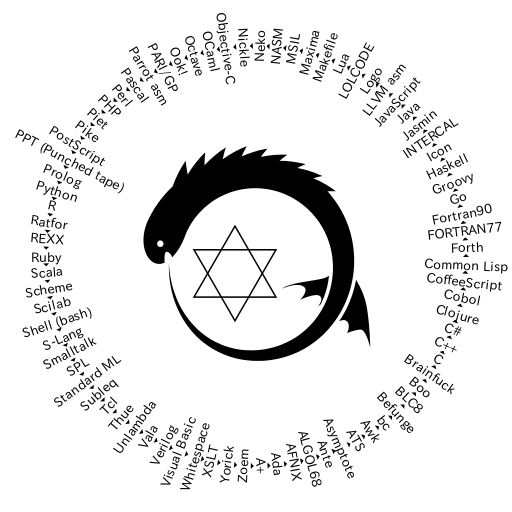
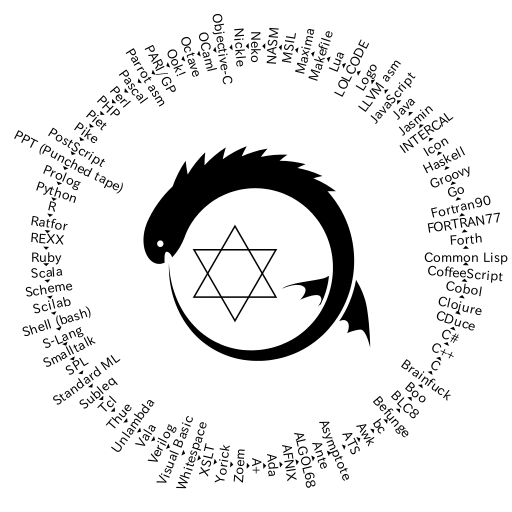
* the 80th language: CDuce

Changed region(s): [[0.0312, 0.0312, 1.0, 0.9688]]

diff --git a/QR.rb b/QR.rb
@@ -9,56 +9,56 @@ ransform'><xsl:output~method='text'/><#{U="xsl:t emplate  "}~match  ='/'><`x21[C
 [%(with~Ada.Text_Io;procedure~qr~is~beg !~Ada   .Tex     t_Io      .Put_L!e("#{d[%(Z"#{e[%W[STRINGz:=~226+~153,a:=z+~166,b:=a
 +"2"+z+~160,c:=b+"8"+z+~165,t:="#{d[%  (H(     '                            #{Q[e[%(implement~mX=Z)+E[%(BEGIN{s=#{E[%(f={n~as
 ~!t|'Y'*n};a=0;s=#{V[Q[E["#!c lude"    +                                   M["#!clude<iostream>`n!t~mX{std::cout<<#{E[%(class
-~Program{public~static~void~  MX{                                                    System.#{C+E[(%((doseq[s(lazy-cat["IDENT
-IFICATION~DIVISION.""PROGRA    M                                                    -ID.~QR.""PROCEDURE~DIVISION."'DISPLA`x59
-](map~#(str"~~~~^""(.repla                                                                 ce~%1"^"""^"^"")"^"&")(re-seq~#".{
-1,45}""#{e[%((f=(n)->Arra                                                                 y(n+1).jo!~"Y");console.log("%s",#{
-V[E[%((H-l!e"#{e[%(~:~A~                                                                       ."#{g*9}"~;~:~B~A~."~WRITE(*,*
-)'"~A~;~:~C~B~T`x59PE~.                                                                       "~'"~CR~;~:~D~S"~#$D"~C~S^"~Z~^
-"(&"~C~S^"~#{e[%(pack                                    age~ma!;i                                mport"fmt";func~mX{fmt.Pr!t
-#{E[%(Z'#{e[("ma!=p                              utStr"+E[%(procedure~mX;i                       :=c:=0;s:=#{E[%(.class~publi
-c~QR`n.super~#{$T=                           "java/io/Pr!tStream"}`n.method~pub                   lic~static~ma!([L#{S="java/
-lang/"}SJ;)V~;]`                         n.limit~stack~2`ngetstatic~#{S}System/out                  ~L#$T;`nldc~"#{e[%(class~
-QR{public~stati                        c~void~ma!(SJ[]v){SJ~c[]=new~SJ[9000],y="",z=y                ,s="#{z=t=(0..r=q=126).m
-ap{|n|[n,[]]};                       a="";b=->n{a<<(n%78+55)%84+42};("s=#{E[%(@s=global               [#{i=(s=%(PR~"`x48AI^~1
-.2~PR~"VISIBL                      E^~"#{Q["Z"+E[%(all:`n`t@echo~'#{d["l!el:99999;Z#{E[%               (.assembly~t{}.method~
-static~void~                      MX{.entrypo!t~ldstr"#{e[%(m:db`x60#{e[s="$Z#{E[%(Zf#{E["              #import"+M["Z_sJ"+E[%
-(s=toascii#                     {E["Z#{E[%(say"#{e[" #$D(output);beg!~H(#{f((p="eval";%($_=             "#{s=%(<?php~function
-~f($n){retu                    rn~str_repeat("Y",$n   );};$f="f";$z=3+$w=strlen($s=#{V[Q[E["!            t~mX{H#{E[%((_______
-____)dup~=                    /s(|~~~~~.~~~|)def(#  {  Q["qr:-H('#{Q[e[%(for~c~!"".jo!(["say~'            %s'^n"%l~for~l~!#{E
-[d[%(eval$                   s=%q(#$s)),?']]}.spl  it(  "^n")]):Z('cat("r=fput(char(%d))^n")'%            ord(c))`nZ('cat("en
-d^n")'))],       ?'         ]}').",B]}){9~7{exch  ~dup~  1~and~79~mul~32~add~exch~2~idiv~3~1~ro            ll~s~exch~2~!dex~e
-xch~put~1~                 sub~dup~6~eq{1~sub}i  f}repea  t~s~=~pop~pop}forall~=~quit)]};return~           0;}"]],"{$f(",")}"
-]})*3;echo"               ^x89PNG^                                     r^n^x1a^n";$m="";$t="^xc0           ^0^xff";for($i=-1;
-$i<128*$z;$m        .=$  c--?($w-$c  ||$i>$z  )&&$i/$z<($c<  $w?ord(  $s[(!t)($c/3)]):$c--%3+2)?$          t[2].$t[$c%3%2].$t
-[$c%3]:"^0^0^       0":"^0")$c=++$i%  $z;fo  reach(array("I`  x48DR  ".pack("NNCV",$w+2,128,8,2),          "IDAT".gzcompress(
-$m),"IEND")as$d)   echo~pack("NA*N",s  trl  en($d)-4,$d,crc32  ($d  ));?>);(s+N*(-s.size%6)).unpa          ck("B*")[0].K(/.{6
-}/){n=$&.to_i~2;((n+14 )/26*6+n+47).ch  r  }}";s|.|$n=ord$&;su  b  str~unpack(B8,chr$n-!t($n/32)*          6-41),2|eg;Z~pack"
-B*",$_).scan(/[~,-:A-z ]+|(.)/){p="s++#   {$1?"chr~#{$1.ord}+e"   :$&+?+};"+p};p),1){"'#$s',"}}''          )end."]}"`nend)]};
-quit"]};t=num2cell(b=1 1-ceil(s/13));f  o  r~n=1:9m={};for~i=1  :  141f=@(x,y,n)repmat(["Oo     k          "~x~"~Ook"~y~32],[
-1~abs(n)]);m(i)=[f(z=4  6,63,n)~f(q=z  -(i  <13)*13,q,i-13)~f  (33  ,z,1)~f(63,z               ,          n  )];end;t(x)=m(di
-ff([0~s(x=b==n)])+13);e nd;Zf("%%s",  t{:})  )]]]})+N]};"+N]  }`x60  `nglobal                  ~          _   start`n_start:m
-ov~edx,#{s.size}`nmov~e  cx,m`nmov~  ebx,1`n  mov~eax,4`n!t  ~128`nm  ov~ebx,0`nmov~          e          a     x,1`n!t~128)]}
-"call~void~[mscorlib]Sys tem.Conso                                     le::Write(sJ           )          r      et})]};quit()
-;",?$].K(?'){"'^''"}}')]  .K(/[:"]/,":^0"),/[~Y  `t;"(){  }`[`]]/]}"~PR~"`x4bT`x48` x58B`x59 E          ~       B`x59E)).size
-+1}x~i8]c"#{s.K(/[^"]/){"  ^%`x58"%$&.ord}}^00"d  eclar  e~i32@puts(i8*)def!e~i32@mX{%1=cal l          ~         i32@puts(i8*
-getelementptr([#{i}x~i8]*@  s,i32~0,i32~0))ret~i3  2~0  })]};typeof~Z=='function'?Z(s):conso          l          e.log('%s',s
-)").bytes{|n|r,z=z[n]||(b[r  /78];b[r];q<6083&&z[n  ]  =[q+=1,[]];t[n])};b[r/78];b[r]}";!t~          i           =0,n=0,q=0;f
-or(;++n<126;)c[n]=""+(char)n   ;for(;i<s.length();)   {q=q*78+(s.charAt(i)-13)%84;if(i++%           2             >0){y=q<n?c
-[q]:y;c[n++]=z+y.charAt(0);Sy   stem.out.Z(z=c[q]);q =0;}}}})]}"`n!vokevirtual~#$T/Zln(L           #              {S}SJ;)V`nr
-eturn`n.end~method)+N]};H("DO,    1<-#"||*s);s?while~t:=ord(move(1))do{i+:=1;u:=-i;eve           ry~0to~          7do{u:=u*2+
-t%2;t/:=2};H("PLEASE")^(i%4/3);H    ("DO,1SUB#"||i||"<-#"||((c-u)%256));c:=u;};H("PL           EASEREADO          UT,1^nPLEAS
-EGIVEUP");end)]).tr(B,?&)]}'.tr('      &','YY');)]};})]}"~DUP~FOR~S"~&A,&"~C~NE`x            58T~S^"~&A)^",&"~C~  0~DO~B~."~&
-char("~COUNT~.~."~),&'"~CR~LOOP~S^"       ~&^"^""~C~S"~end~#$D"~C~A~."~STOP"~C             R~A~."~END"~CR~B`x59E~  ;~D~)]}"))
-],'#{f(',')}']}))]}"))["~~~~^"~^".""ST        OP~RUN."])](Zln(str"#{g*8}"s               )))))]};}})]};}"]]],"$(f  (","))"]};
-for~i~!~range(len(s)):b~as~!t=s[i];a-=b;             Z(('+'*-a~if~                    0>a~else'-'*a)+'.');a=b;).tr~B,?`x21]};
-K(/`x21/,"Y",s);for(Z"def!e~void~f(n){^"00g,                                       ^";for(m=128;m;m/=2){^"00g,4,:^";if(n/m%2<
-1)^"4+^";^",^";};^"4,:,^"}^"389**6+44*6+00p29*,^                              ";";++j<=length(s);Z"f("n");")for(n=9;substr(s,
-j,1)`x21=sZf("%c",++n););Z"^"4,:,@^"^nquit"})]],?']}');                )]}";FORiTO`~UPBtDO`~INTn:=ABSt[i];Z(~(50+n%64)+c+~(50
-+n%8MOD8)+c+~(50+nMOD8)+b+"`x4a"+a)OD]*"REPR"]}")]}");end;)]+"`nsys.exit~0",/[^{}]/]}}",35){y<<",`n"+$S;"%s"}}")+y}]]></#{U}>
-</xsl:#{I}>"].K~N,'"&~VbLf~&"'}":s="~~~":For~i=0To~7:s~&=Chr(32-(Asc(c)>>7-i~And~1)*23):Next:#{C}(s~&n~&Chr(9)&n~&"~~"):Next:
-#{C}(n~&n~&n):End~Sub:End~Module),3){%($H("%s",#$S);)+N}}end~endmodule)],?%]};return~0;}).reverse],/[`[`]$]/],"[f~",?]]}"~^x6
-0.&]k^n::=^na)]};Z"0~0~-1";)]]};),?']}';cr"]]]}"|sed~-E~-e~'s/([`x5eY]|Y.){1,120}/Zf("%s","^0");^n/g'],7){%(Zf("%s","#{d[d[$s
-],?']}")`n)}}quit)]}")),196){%(Z#$S;)}}})).gsub(/[!HJKXYZ^`~]/){[B*2,:write,B,:tring,:gsub,"ain()",B*4,:print,g,:in][$&.ord%4
-7%12]})))*"")#_buffer_for_future_bug_fixes_#_buffer_for_future_bug_fixes_#_buffer_for_future_bug_fixes_#_buffer_for_future_bu
+~Program{public~static~void~  MX{                                                    System.#{C+E[("Z#{E[%((doseq[s(lazy-cat[
+"IDENTIFICATION~DIVISION.""    P                                                    ROGRAM-ID.~QR.""PROCEDURE~DIVISION."'DISP
+LA`x59](map~#(str"~~~~^""(                                                                 .replace~%1"^"""^"^"")"^"&")(re-se
+q~#".{1,45}""#{e[%((f=(n)                                                                 ->Array(n+1).jo!~"Y");console.log("
+%s",#{V[E[%((H-l!e"#{e[%                                                                       (~:~A~."#{g*9}"~;~:~B~A~."~WRI
+TE(*,*)'"~A~;~:~C~B~T`x                                                                       59PE~."~'"~CR~;~:~D~S"~#$D"~C~S
+^"~Z~^"(&"~C~S^"~#{e[                                    %(package                                ~ma!;import"fmt";func~mX{fm
+t.Pr!t#{E[%(Z'#{e[(                              "ma!=putStr"+E[%(procedur                       e~mX;i:=c:=0;s:=#{E[%(.class
+~public~QR`n.super                           ~#{$T="java/io/Pr!tStream"}`n.meth                   od~public~static~ma!([L#{S=
+"java/lang/"}SJ;                         )V~;]`n.limit~stack~2`ngetstatic~#{S}Syst                  em/out~L#$T;`nldc~"#{e[%(
+class~QR{public                        ~static~void~ma!(SJ[]v){SJ~c[]=new~SJ[9000],y=                "",z=y,s="#{z=t=(0..r=q=
+126).map{|n|[n                       ,[]]};a="";b=->n{a<<(n%78+55)%84+42};("s=#{E[%(@s=               global[#{i=(s=%(PR~"`x4
+8AI^~1.2~PR~"                      VISIBLE^~"#{Q["Z"+E[%(all:`n`t@echo~'#{d["l!el:99999;               Z#{E[%(.assembly~t{}.m
+ethod~static                      ~void~MX{.entrypo!t~ldstr"#{e[%(m:db`x60#{e[s="$Z#{E[%(Z              f#{E["#import"+M["Z_s
+J"+E[%(s=to                     ascii#{E["Z#{E[%(say "#{e["#$D(output);beg!~H(#{f((p="eval"             ;%($_="#{s=%(<?php~fu
+nction~f($n                    ){return~str_repeat(   "Y",$n);};$f="f";$z=3+$w=strlen($s=#{V[            Q[E["!t~mX{H#{E[%((_
+__________                    )dup~=/s(|~~~~~.~~~|  )  def(#{Q["qr:-H('#{Q[e[%(for~c~!"".jo!([            "say~'%s'^n"%l~for~
+l~!#{E[d[%                   (eval$s=%q(#$s)),?']  ]}.  split("^n")]):Z('cat("r=fput(char(%d))            ^n")'%ord(c))`nZ('c
+at("end^n"       )'         ))],?']}').",B]}){9~  7{exc  h~dup~1~and~79~mul~32~add~exch~2~idiv~            3~1~roll~s~exch~2~
+!dex~exch~                 put~1~sub~dup~6~eq{1  ~sub}if  }repeat~s~=~pop~pop}forall~=~quit)]};r           eturn~0;}"]],"{$f(
+",")}"]})*3               ;echo"^x                                     89PNG^r^n^x1a^n";$m="";$t           ="^xc0^0^xff";for(
+$i=-1;$i<128        *$z  ;$m.=$c--?  ($w-$c|  |$i>$z)&&$i/$  z<($c<$  w?ord($s[(!t)($c/3)]):$c--%          3+2)?$t[2].$t[$c%3
+%2].$t[$c%3]:       "^0^0^0":"^0")$c  =++$i  %$z;foreach(arr  ay("I  `x48DR".pack("NNCV",$w+2,128          ,8,2),"IDAT".gzcom
+press($m),"IEND"   )as$d)echo~pack("N  A*N  ",strlen($d)-4,$d  ,cr  c32($d));?>);(s+N*(-s.size%6)          ).unpack("B*")[0].
+K(/.{6}/){n=$&.to_i~2; ((n+14)/26*6+n+  4  7).chr}}";s|.|$n=or  d  $&;substr~unpack(B8,chr$n-!t($          n/32)*6-41),2|eg;Z
+~pack"B*",$_).scan(/[~ ,-:A-z]+|(.)/){p   ="s++#{$1?"chr~#{$1.o   rd}+e":$&+?+};"+p};p),1){"'#$s'          ,"}}'')end."]}"`ne
+nd)]};quit"]};t=num2ce ll(b=11-ceil(s/  1  3));for~n=1:9m={};f  o  r~i=1:141f=@(x,y,n)repma     t          (["Ook"~x~"~Ook"~y
+~32],[1~abs(n)]);m(i)=  [f(z=46,63,n)  ~f(  q=z-(i<13)*13,q,i  -13  )~f(33,z,1)~               f          (  63,z,n)];end;t(x
+)=m(diff([0~s(x=b==n)]) +13);end;Zf(  "%%s"  ,t{:}))]]]})+N]  };"+N  ]}`x60`n                  g          l   obal~_start`n_s
+tart:mov~edx,#{s.size}`  nmov~ecx,m  `nmov~e  bx,1`nmov~eax  ,4`n!t~  128`nmov~ebx,0          `          n     mov~eax,1`n!t~
+128)]}"call~void~[mscorl ib]System                                     .Console::Wr           i          t      e(sJ)ret})]};
+quit();",?$].K(?'){"'^''  "}}')].K(/[:"]/,":^0"  ),/[~Y`  t;"(){}`[`]]/]}"~PR~"`x4b T`x48`x5 8          B       `x59E~B`x59E)
+).size+1}x~i8]c"#{s.K(/[^  "]/){"^%`x58"%$&.ord}  }^00"  declare~i32@puts(i8*)def!e~i32@mX{ %          1         =call~i32@pu
+ts(i8*getelementptr([#{i}x  ~i8]*@s,i32~0,i32~0))  ret  ~i32~0})]};typeof~Z=='function'?Z(s)          :          console.log(
+'%s',s)").bytes{|n|r,z=z[n]  ||(b[r/78];b[r];q<608  3  &&z[n]=[q+=1,[]];t[n])};b[r/78];b[r]          }           ";!t~i=0,n=0
+,q=0;for(;++n<126;)c[n]=""+(   char)n;for(;i<s.leng   th();){q=q*78+(s.charAt(i)-13)%84;i           f             (i++%2>0){y
+=q<n?c[q]:y;c[n++]=z+y.charAt   (0);System.out.Z(z=c [q]);q=0;}}}})]}"`n!vokevirtual~#$T           /              Zln(L#{S}SJ
+;)V`nreturn`n.end~method)+N]};    H("DO,1<-#"||*s);s?while~t:=ord(move(1))do{i+:=1;u:=           -i;ever          y~0to~7do{u
+:=u*2+t%2;t/:=2};H("PLEASE")^(i%    4/3);H("DO,1SUB#"||i||"<-#"||((c-u)%256));c:=u;}           ;H("PLEAS          EREADOUT,1^
+nPLEASEGIVEUP");end)]).tr(B,?&)]}      '.tr('&','YY');)]};})]}"~DUP~FOR~S"~&A,&"~            C~NE`x58T~S^"~&A)^"  ,&"~C~0~DO~
+B~."~&char("~COUNT~.~."~),&'"~CR~LO       OP~S^"~&^"^""~C~S"~end~#$D"~C~A~."~S             TOP"~CR~A~."~END"~CR~B  `x59E~;~D~
+)]}"))],'#{f(',')}']}))]}"))["~~~~^"~^        ".""STOP~RUN."])](Zln(str"#{               g*8}"s))))]};;")]};}})]}  ;}"]]],"$(
+f(","))"]};for~i~!~range(len(s)):b~as~!t             =s[i];a-=b;Z(                    ('+'*-a~if~0>a~else'-'*a)+'.');a=b;).tr
+~B,?`x21]};K(/`x21/,"Y",s);for(Z"def!e~void~                                       f(n){^"00g,^";for(m=128;m;m/=2){^"00g,4,:^
+";if(n/m%2<1)^"4+^";^",^";};^"4,:,^"}^"389**6+44                              *6+00p29*,^";";++j<=length(s);Z"f("n");")for(n=
+9;substr(s,j,1)`x21=sZf("%c",++n););Z"^"4,:,@^"^nquit"}                )]],?']}');)]}";FORiTO`~UPBtDO`~INTn:=ABSt[i];Z(~(50+n
+%64)+c+~(50+n%8MOD8)+c+~(50+nMOD8)+b+"`x4a"+a)OD]*"REPR"]}")]}");end;)]+"`nsys.exit~0",/[^{}]/]}}",35){y<<",`n"+$S;"%s"}}")+y
+}]]></#{U}></xsl:#{I}>"].K~N,'"&~VbLf~&"'}":s="~~~":For~i=0To~7:s~&=Chr(32-(Asc(c)>>7-i~And~1)*23):Next:#{C}(s~&n~&Chr(9)&n~&
+"~~"):Next:#{C}(n~&n~&n):End~Sub:End~Module),3){%($H("%s",#$S);)+N}}end~endmodule)],?%]};return~0;}).reverse],/[`[`]$]/],"[f~
+",?]]}"~^x60.&]k^n::=^na)]};Z"0~0~-1";)]]};),?']}';cr"]]]}"|sed~-E~-e~'s/([`x5eY]|Y.){1,120}/Zf("%s","^0");^n/g'],7){%(Zf("%s
+","#{d[d[$s],?']}")`n)}}quit)]}")),196){%(Z#$S;)}}})).gsub(/[!HJKXYZ^`~]/){[B*2,:write,B,:tring,:gsub,"ain()",B*4,:print,g,:i
+n][$&.ord%47%12]})))*"")#_buffer_for_future_bug_fixes_#_buffer_for_future_bug_fixes_#_buffer_for_future_bug_fixes_#_buffer_fo
 #######################  Quine Relay -- Copyright (c) 2013, 2014 Yusuke Endoh (@mametter), @hirekoke  ######################)

diff --git a/src/code-gen.rb b/src/code-gen.rb
@@ -551,6 +551,13 @@ class Clojure_Cobol < CodeGen
   end
 end
 
+class CDuce < CodeGen
+  File = "QR.cd"
+  Cmd = "cduce QR.cd > OUTFILE"
+  Apt = "cduce"
+  Code = %q("print#{E[PREV]};;")
+end
+
 class CSharp < CodeGen
   Name = "C#"
   File = "QR.cs"

diff --git a/README.md b/README.md
@@ -7,7 +7,7 @@
 This is a Ruby program that generates
 Scala program that generates
 Scheme program that generates
-...(through 79 languages in total)...
+...(through 80 languages in total)...
 REXX program that generates
 the original Ruby code again.
 
@@ -26,14 +26,14 @@ If you are using Ubuntu 14.10 "Utopic Unicorn", you can perform the following st
 First, you have to type the following apt-get command to install all of them.
 
     $ sudo apt-get install afnix algol68g aplus-fsf asymptote \
-      ats-lang-anairiats bash bc bf boo bsdgames clisp clojure1.4 cmake \
-      coffeescript f2c fp-compiler g++ gauche gawk gcc gforth gfortran ghc \
-      ghostscript gnat gnu-smalltalk gobjc golang groff groovy icont iconx \
-      intercal iverilog jasmin-sable libgd2-xpm-dev libpng12-dev llvm lua5.2 \
-      make maxima mlton mono-devel mono-mcs mono-vbnc nasm neko nickle ocaml \
-      octave open-cobol openjdk-6-jdk pari-gp parrot perl php5-cli pike7.8 \
-      python r-base ratfor regina-rexx rhino ruby2.0 scala scilab slsh \
-      spl-core swi-prolog tcl ucblogo valac xsltproc yorick zoem
+      ats-lang-anairiats bash bc bf boo bsdgames cduce clisp clojure1.4 \
+      cmake coffeescript f2c fp-compiler g++ gauche gawk gcc gforth gfortran \
+      ghc ghostscript gnat gnu-smalltalk gobjc golang groff groovy icont \
+      iconx intercal iverilog jasmin-sable libgd2-xpm-dev libpng12-dev llvm \
+      lua5.2 make maxima mlton mono-devel mono-mcs mono-vbnc nasm neko \
+      nickle ocaml octave open-cobol openjdk-6-jdk pari-gp parrot perl \
+      php5-cli pike7.8 python r-base ratfor regina-rexx rhino ruby2.0 scala \
+      scilab slsh spl-core swi-prolog tcl ucblogo valac xsltproc yorick zoem
 
 Then, you have to build the bundled interpreters.
 
@@ -85,7 +85,8 @@ If you could do it, please let me know.  Good luck.
     $ bf QR.bf > QR.c
     $ gcc -o QR QR.c && ./QR > QR.cpp
     $ g++ -o QR QR.cpp && ./QR > QR.cs
-    $ mcs QR.cs && mono QR.exe > QR.clj
+    $ mcs QR.cs && mono QR.exe > QR.cd
+    $ cduce QR.cd > QR.clj
     $ clojure QR.clj > QR.cob
     $ cobc -O2 -x QR.cob && ./QR > QR.coffee
     $ coffee QR.coffee > QR.lisp
@@ -182,50 +183,51 @@ I used the following Ubuntu deb packages to test this program.
 34 |C                  |gcc                |4:4.8.2-1ubuntu6
 35 |C++                |g++                |4:4.8.2-1ubuntu6
 36 |C#                 |mono-mcs           |3.2.8+dfsg-4ubuntu1
-37 |Clojure            |clojure1.4         |1.4.0+dfsg-3
-38 |Cobol              |open-cobol         |1.1-1build1
-39 |CoffeeScript       |coffeescript       |1.4.0-1
-40 |Common Lisp        |clisp              |1:2.49-9ubuntu1
-41 |Forth              |gforth             |0.7.0+ds2-0.1
-42 |FORTRAN77          |f2c                |20100827-1
-43 |Fortran90          |gfortran           |4:4.8.2-1ubuntu6
-44 |Go                 |golang             |2:1.2.1-2ubuntu1
-45 |Groovy             |groovy             |2.0.0~beta2+isreally1.8.6-0ubuntu1
-46 |Haskell            |ghc                |7.6.3-10
-47 |Icon               |icont              |9.4.3-4.2ubuntu1
+37 |CDuce              |cduce              |0.6.0-1
+38 |Clojure            |clojure1.4         |1.4.0+dfsg-3
+39 |Cobol              |open-cobol         |1.1-1build1
+40 |CoffeeScript       |coffeescript       |1.4.0-1
+41 |Common Lisp        |clisp              |1:2.49-9ubuntu1
+42 |Forth              |gforth             |0.7.0+ds2-0.1
+43 |FORTRAN77          |f2c                |20100827-1
+44 |Fortran90          |gfortran           |4:4.8.2-1ubuntu6
+45 |Go                 |golang             |2:1.2.1-2ubuntu1
+46 |Groovy             |groovy             |2.0.0~beta2+isreally1.8.6-0ubuntu1
+47 |Haskell            |ghc                |7.6.3-10
+48 |Icon               |icont              |9.4.3-4.2ubuntu1
    |                   |iconx              |9.4.3-4.2ubuntu1
-48 |INTERCAL           |intercal           |29:0.29-3
-49 |Jasmin             |jasmin-sable       |2.4.0-3
-50 |Java               |openjdk-6-jdk      |6b33-1.13.5-1ubuntu0.14.04
-51 |JavaScript         |rhino              |1.7R4-2
-52 |LLVM asm           |llvm               |1:3.4-0ubuntu1
-53 |Logo               |ucblogo            |5.5-2.1
-54 |LOLCODE            |*N/A*              |-
-55 |Lua                |lua5.2             |5.2.3-1
-56 |Makefile           |make               |3.81-8.2ubuntu3
-57 |Maxima             |maxima             |5.32.1-1
-58 |MSIL               |mono-devel         |3.2.8+dfsg-4ubuntu1
-59 |NASM               |nasm               |2.10.09-1
-60 |Neko               |neko               |2.0.0-3
-61 |Nickle             |nickle             |2.77-1
-62 |Objective-C        |gobjc              |4:4.8.2-1ubuntu6
-63 |OCaml              |ocaml              |4.01.0-3ubuntu3
-64 |Octave             |octave             |3.8.1-1ubuntu1
-65 |Ook!               |*N/A*              |-
-66 |PARI/GP            |pari-gp            |2.5.5-1
-67 |Parrot asm         |parrot             |5.9.0-1build1
-68 |Pascal             |fp-compiler        |2.6.2-8
-69 |Perl               |perl               |5.18.2-2ubuntu1
-70 |PHP                |php5-cli           |5.5.9+dfsg-1ubuntu4.4
-71 |Piet               |*N/A*              |-
-72 |Pike               |pike7.8            |7.8.700-7
-73 |PostScript         |ghostscript        |9.10~dfsg-0ubuntu10.2
-74 |PPT (Punched tape) |bsdgames           |2.17-21
-75 |Prolog             |swi-prolog         |6.6.4-2ubuntu1
-76 |Python             |python             |2.7.5-5ubuntu3
-77 |R                  |r-base             |3.0.2-1ubuntu1
-78 |Ratfor             |ratfor             |1.0-15
-79 |REXX               |regina-rexx        |3.6-2
+49 |INTERCAL           |intercal           |29:0.29-3
+50 |Jasmin             |jasmin-sable       |2.4.0-3
+51 |Java               |openjdk-6-jdk      |6b33-1.13.5-1ubuntu0.14.04
+52 |JavaScript         |rhino              |1.7R4-2
+53 |LLVM asm           |llvm               |1:3.4-0ubuntu1
+54 |Logo               |ucblogo            |5.5-2.1
+55 |LOLCODE            |*N/A*              |-
+56 |Lua                |lua5.2             |5.2.3-1
+57 |Makefile           |make               |3.81-8.2ubuntu3
+58 |Maxima             |maxima             |5.32.1-1
+59 |MSIL               |mono-devel         |3.2.8+dfsg-4ubuntu1
+60 |NASM               |nasm               |2.10.09-1
+61 |Neko               |neko               |2.0.0-3
+62 |Nickle             |nickle             |2.77-1
+63 |Objective-C        |gobjc              |4:4.8.2-1ubuntu6
+64 |OCaml              |ocaml              |4.01.0-3ubuntu3
+65 |Octave             |octave             |3.8.1-1ubuntu1
+66 |Ook!               |*N/A*              |-
+67 |PARI/GP            |pari-gp            |2.5.5-1
+68 |Parrot asm         |parrot             |5.9.0-1build1
+69 |Pascal             |fp-compiler        |2.6.2-8
+70 |Perl               |perl               |5.18.2-2ubuntu1
+71 |PHP                |php5-cli           |5.5.9+dfsg-1ubuntu4.4
+72 |Piet               |*N/A*              |-
+73 |Pike               |pike7.8            |7.8.700-7
+74 |PostScript         |ghostscript        |9.10~dfsg-0ubuntu10.2
+75 |PPT (Punched tape) |bsdgames           |2.17-21
+76 |Prolog             |swi-prolog         |6.6.4-2ubuntu1
+77 |Python             |python             |2.7.5-5ubuntu3
+78 |R                  |r-base             |3.0.2-1ubuntu1
+79 |Ratfor             |ratfor             |1.0-15
+80 |REXX               |regina-rexx        |3.6-2
 
 Note that some languages are not available in Ubuntu (marked as *N/A*).
 This repository includes their implementations in `vendor/`.
